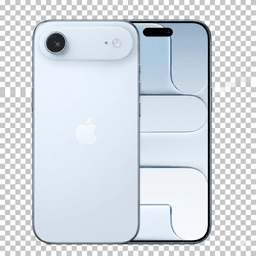
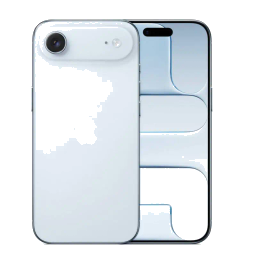
Add iPhone 17 Air render with transparent background
New iphone17air.png from Skywalker's upload. White bg removed.
Updated image mapping to use Air-specific render on quote page.

diff --git a/app/page.tsx b/app/page.tsx
@@ -725,7 +725,7 @@ export default function Home() {
           <div className="max-w-lg mx-auto px-4 pt-12 pb-8 text-center">
             <div className="flex items-center justify-center gap-5 mb-2">
               {(() => {
-                const imgMap: Record<string, string> = { ip17e: "/iphone17e.png", ip17pm: "/iphone17.png", ip17p: "/iphone17.png", ip17air: "/iphone17.png", ip17: "/iphone17.png", ip16pm: "/iphone16.png", ip16p: "/iphone16.png", ip16plus: "/iphone16.png", ip16: "/iphone16.png", ip16e: "/iphone16.png", ip15pm: "/iphone15.png", ip15p: "/iphone15.png", ip15plus: "/iphone15.png", ip15: "/iphone15.png", ip14pm: "/iphone14.png", ip14p: "/iphone14.png", ip14: "/iphone14.png", ip13pm: "/iphone13.png", ip13p: "/iphone13.png", ip13: "/iphone13.png", ip12pm: "/iphone12.png", ip12: "/iphone12.png", ip11pm: "/iphone11.png", ip11: "/iphone11.png" };
+                const imgMap: Record<string, string> = { ip17e: "/iphone17e.png", ip17pm: "/iphone17.png", ip17p: "/iphone17.png", ip17air: "/iphone17air.png", ip17: "/iphone17.png", ip16pm: "/iphone16.png", ip16p: "/iphone16.png", ip16plus: "/iphone16.png", ip16: "/iphone16.png", ip16e: "/iphone16.png", ip15pm: "/iphone15.png", ip15p: "/iphone15.png", ip15plus: "/iphone15.png", ip15: "/iphone15.png", ip14pm: "/iphone14.png", ip14p: "/iphone14.png", ip14: "/iphone14.png", ip13pm: "/iphone13.png", ip13p: "/iphone13.png", ip13: "/iphone13.png", ip12pm: "/iphone12.png", ip12: "/iphone12.png", ip11pm: "/iphone11.png", ip11: "/iphone11.png" };
                 const src = imgMap[model.id];
                 return src ? <img src={src} alt={model.label} className="w-20 h-20 object-contain" /> : null;
               })()}
